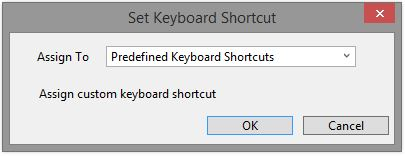
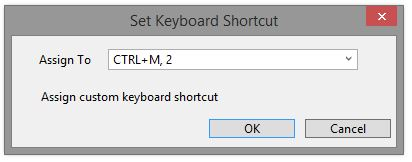
Removed pictures and added new ones

diff --git a/VSMacros/Documentation/README.md b/VSMacros/Documentation/README.md
@@ -1,8 +1,6 @@
 # Macros for Visual Studio
 
-An extension for Visual Studio 2013 Professional (and above) that enables the use of macros to automate repetitive tasks in the IDE. The extension can record most of the features in Visual Studio including text editing operations.
-
-![Convert private variables to public fields](Demos/convert.gif)
+An extension for Visual Studio 2013 that enables the use of macros to automate repetitive tasks in the IDE. The extension can record most of the commands in Visual Studio including text editing operations.
 
 ## Features
 
@@ -10,33 +8,10 @@ An extension for Visual Studio 2013 Professional (and above) that enables the us
 * Playback multiple times
 * Manage and persist macros with a Macro Explorer
 * Assign keyboard bindings to any macro
-* Editing capability with JavaScript and DTE Intellisense
+* Macros recorded as JavaScript files that call VS DTE APIs
+* Macro editing in Visual Studio with DTE IntelliSense
 * Stop playback
 * Sample macros
-
-## Getting Started
-
-After [installing](#install) the extension, the Macro menu will appear under `Tools > Macros`. Under this menu, you'll find commands to record and playback a macro.
-
-### Current Macro
-
-The Current macro is a temporary macro that holds the last recorded macro. To persist it, use the Macro Explorer toolbar command `Save Current Macro` (or right-click the Current macro). Name the new macro and assign a shortcut if you wish.
-The new macro will then be persisted on your file system.
-
-### Assigning a shortcut
-![Assign Shortcut](Demos/assignshortcut.jpg)
-
-#### <a name="predefinedshortcut"></a>Predefined keyboard shortcut
-
-
-To assign a shortcut to a macro, right-click the macro and then `Assign shortcut`. Select a shortcut from the list and hit `OK`.
-
-
-#### <a name="customshortcut"></a>Custom keyboard shortcut
-
-To assign a custom keyboard shortcut like `CTRL+SHIFT+;` to a macro, you'll first need to [assign a predefined keyboard shortcut](#predefinedshortcut). Then go to `Tools > Options > Keyboard` (or click on "Assign custom keyboard shortcut" in the previous dialog).
-Look for `Tools.MacroCommand#` where `#` is the number of the predefined shortcut you assigned your macro to.
-
 
 ## Example
 
@@ -54,6 +29,92 @@ To do so efficiently, place your cursor before the "p" of the first private then
 
 You can then playback the macro (CTRL+M, P) or play it back multiple times (CTRL+M, I).
 
+![Convert private variables to public fields](Demos/convert.gif)
+
+## Getting Started
+
+After installing the extension, the Macro menu will appear under `Tools > Macros`. Under this menu, you'll find commands to record and playback a macro.
+
+### Current macro
+
+The Current macro is a temporary macro that holds the last recorded macro. To persist it, use the Macro Explorer toolbar command `Save Current Macro` (or right-click the Current macro). Name the new macro and assign a shortcut if you wish.
+The new macro will then be persisted on your file system.
+
+### Assigning a shortcut
+
+#### <a name="predefinedshortcut"></a>Predefined keyboard shortcut
+
+To assign a shortcut to a macro, right-click the macro and then `Assign shortcut`. Select a shortcut from the list and hit `OK`.
+
+![Assign Shortcut](Demos/assignshortcut.jpg)
+
+#### <a name="customshortcut"></a>Custom keyboard shortcut
+
+To assign a custom keyboard shortcut like `CTRL+SHIFT+;` to a macro,
+
+1. [Assign a predefined keyboard shortcut](#predefinedshortcut)
+2. Go to `Tools > Options > Keyboard` (or click on "Assign custom keyboard shortcut" in the previous dialog).
+3. Search for `Tools.MacroCommand#` where `#` is the number of the predefined shortcut you assigned your macro to.
+
+    ![Search for Tools.MacroCommand#](Demos/toolsoptionkeyboard-macrocommand.jpg)
+
+4. Assign a custom shortcut to that command
+
+    ![Assign Shortcut to Tools.MacroCommand#](Demos/toolsoptionkeyboard-assign.jpg)
+
+### Sample macros
+
+**Accessibility**
+
+- Decrease Font Size
+- Increase Font Size
+- Maximize Tool Windows
+
+**Documents**
+
+- Close Except Active: close all files in Visual Studio except active file
+- Headify All: insert header into each C# file in the solution
+- Remove and Sort All: remove unused usings and then sort, for each C# file in the solution
+
+**Editor**
+
+- Beginning of Function: moves cursor to the beginning of the current function
+- Insert Date & Time
+- Insert Date
+- Insert Header: insert header into current C# file
+- Insert Time
+- Pane Center Screen
+- Pane Top Screen
+- Save Backup: saves active document as .bak file in current directory
+
+**Snippets (inserts code snippet)**
+
+- For Each Document: to iterate through each open document in Visual Studio
+- For Each Window: to iterate through each open window in Visual Studio
+- Properties: grab one of the properties in Tools >> Options
+
+    For example, to show/hide status bar:
+
+                var property = dte.Properties("Environment", "General")
+                property.Item("ShowStatusBar").Value = true
+
+- Undo Context: encapsulate a single undo in macro script
+
+**Utilities**
+
+- Find Line: queries find tool for current line
+- Toggle Line Numbers
+- Toggle Word Wrap
+
+
+## Caveats
+
+The following are not supported by the extension right now:
+
+- Recording interaction with dialogs
+- Recording of 'async' commands like Build may not execute as expected
+- Execute a macro inside another macro
+
 ## FAQ
 
 * How can I modify the shortcut to record, playback and playback multiple times?
@@ -66,30 +127,6 @@ See [Assigning a custom keyboard shortcut](#customshortcut).
 
 ## Release Notes
 
-**1.2.1 - 8/4/2014**
-
-- Better DTE IntelliSense in editor
-
-**1.2.0 - 7/29/2014**
-
-- More sophisticated recorder output
-- More descriptive error messages for certain errors
-- Stop execution is enabled, along with toolbar changes during/after execution
-
-**1.1.0 - 7/24/2014**
-
-- Drag and Drop macros from Windows File Explorer to Macro Explorer
-- Restore folder expansion in next session
-- Better Intellisense handling by the recorder
-- Improved execution engine and better error handling
-
-**1.0.1 - 7/21/2014**
-
-- More sophisticated command parsing
-- Engine closes when Visual Studio closes
-- More graceful error handling
-- Ability to playback a macro multiple times
-
-**1.0.0 - 7/18/2014**
+**1.0.0 - 8/8/2014**
 
 - Initial release
